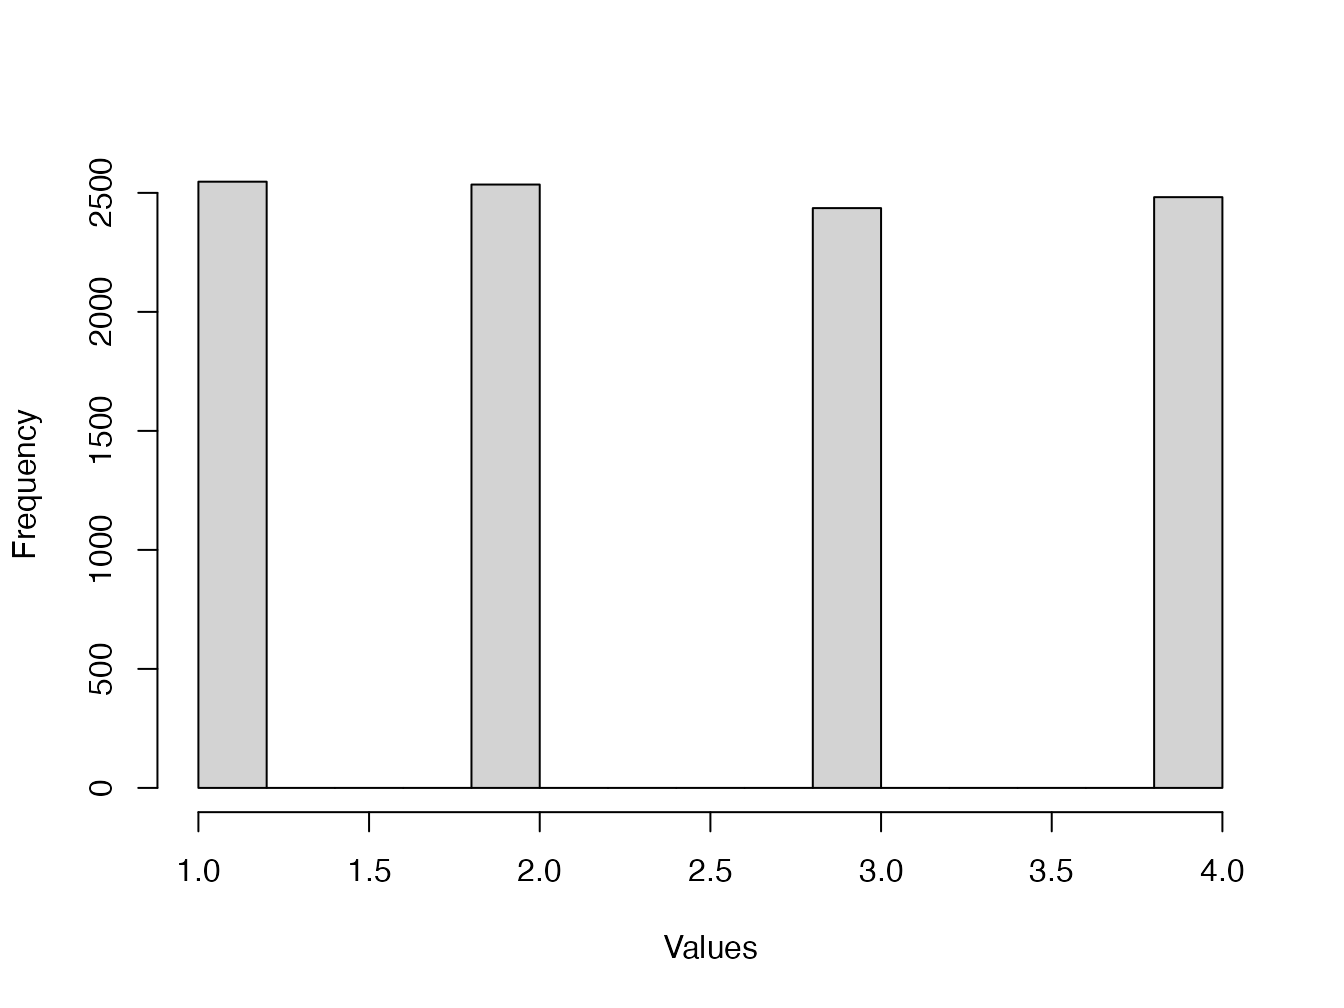
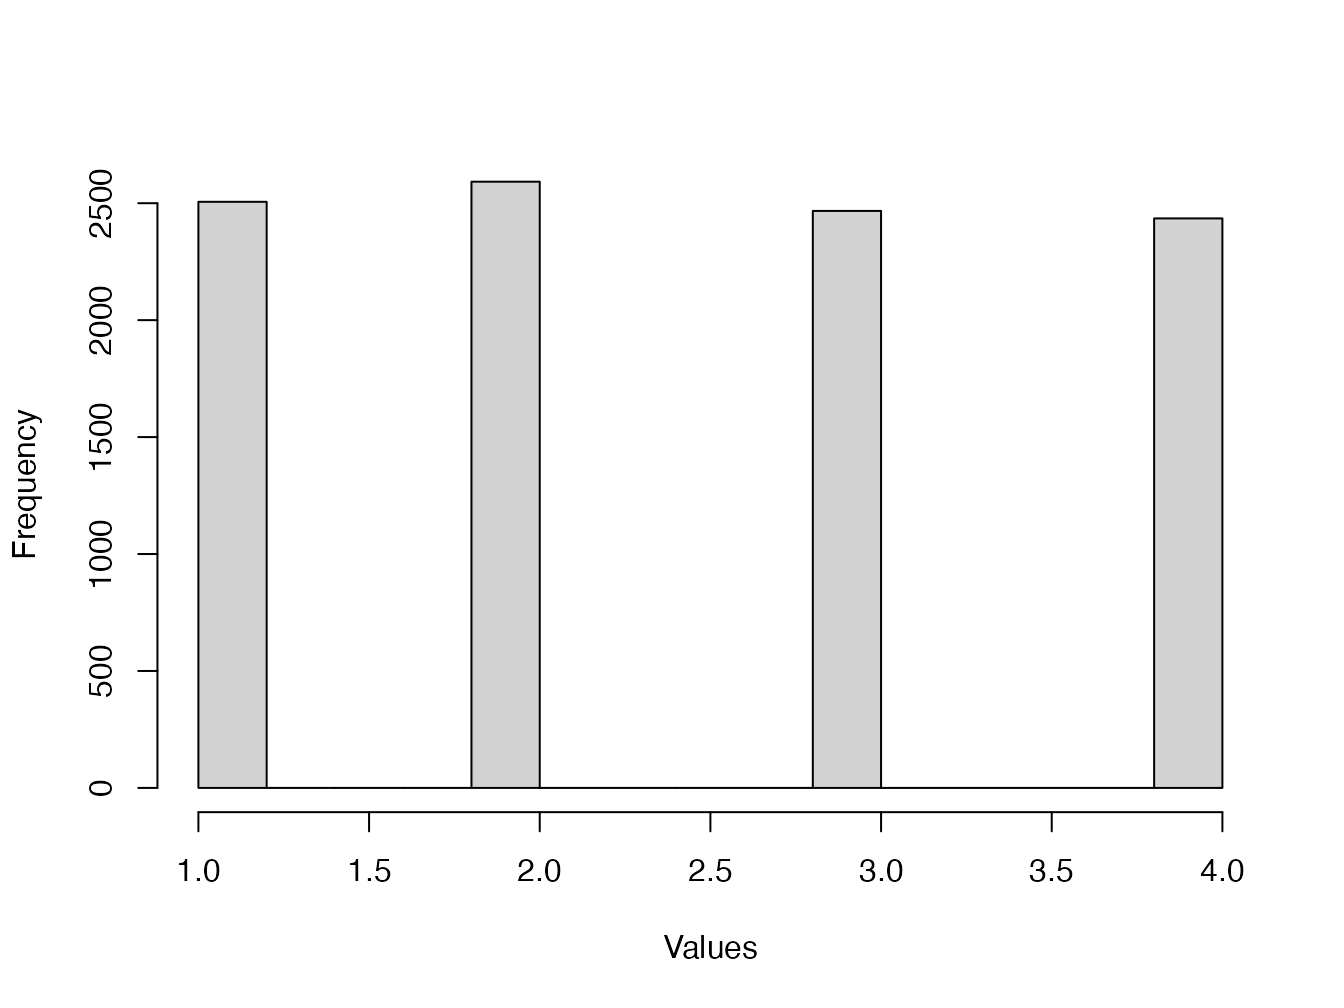
Links back to the homepage: sidebar, phones, colophon
- sidebar: frog + 'Anas A Rana' above the book title (sidebar header)
- phones: small frog + name line above each page title (ems.lua)
- colophon below the prev/next links in the text column, thin rule,
  credit line + italic 'Set in ET Book. Built with Quarto (source).'

diff --git a/ems.scss b/ems.scss
@@ -103,3 +103,40 @@ $arrow-left: polygon(#{$pt} 0, 100% 0, 100% 100%, #{$pt} 100%, 0 50%);
   color: $tufte-red; text-decoration: none;
 }
 .datalink a:hover { text-decoration: underline; }
+
+// ---- Link back to the homepage -----------------------------------------
+// Desktop: frog + name above the book title in the sidebar.
+.quarto-sidebar-header .home-link {
+  display: inline-flex; align-items: center; gap: .4em;
+  color: $tufte-muted; text-decoration: none; font-size: .9rem;
+  margin-bottom: .6rem;
+}
+.quarto-sidebar-header .home-link:hover { color: $tufte-ink; }
+.quarto-sidebar-header .home-frog { height: .95em; width: auto; }
+// Phones: a small frog + name line above each page title (ems.lua puts it
+// first in the page body; on phones the main column is reordered so it sits
+// above the title block).
+.mobile-home { display: none; }
+@media (max-width: 991.98px) {
+  main.content { display: flex; flex-direction: column; }
+  main.content > * { width: 100%; }
+  .mobile-home { display: block; order: -1; margin: 0 0 .25rem; font-size: .9rem; }
+  .mobile-home a {
+    display: inline-flex; align-items: center; gap: .4em; min-height: 44px;
+    color: $tufte-muted; text-decoration: none;
+  }
+  .mobile-home svg { height: .95em; width: auto; }
+  .mobile-home svg .accent { fill: $tufte-red; }
+}
+.quarto-sidebar-header .sidebar-header-item p { margin: 0; }
+
+// ---- Colophon (decision 3A) --------------------------------------------
+// Below the prev/next links, in the text column: thin rule, then the
+// credit line and an italic colophon line.
+.ems-colophon {
+  margin: 1.5rem 0 2.5rem; padding-top: 1rem;
+  border-top: 1px solid $tufte-rule;
+  font-size: .85rem; line-height: 1.45; color: $tufte-muted;
+}
+.ems-colophon p { margin: 0; }
+.ems-colophon a { color: inherit; }
